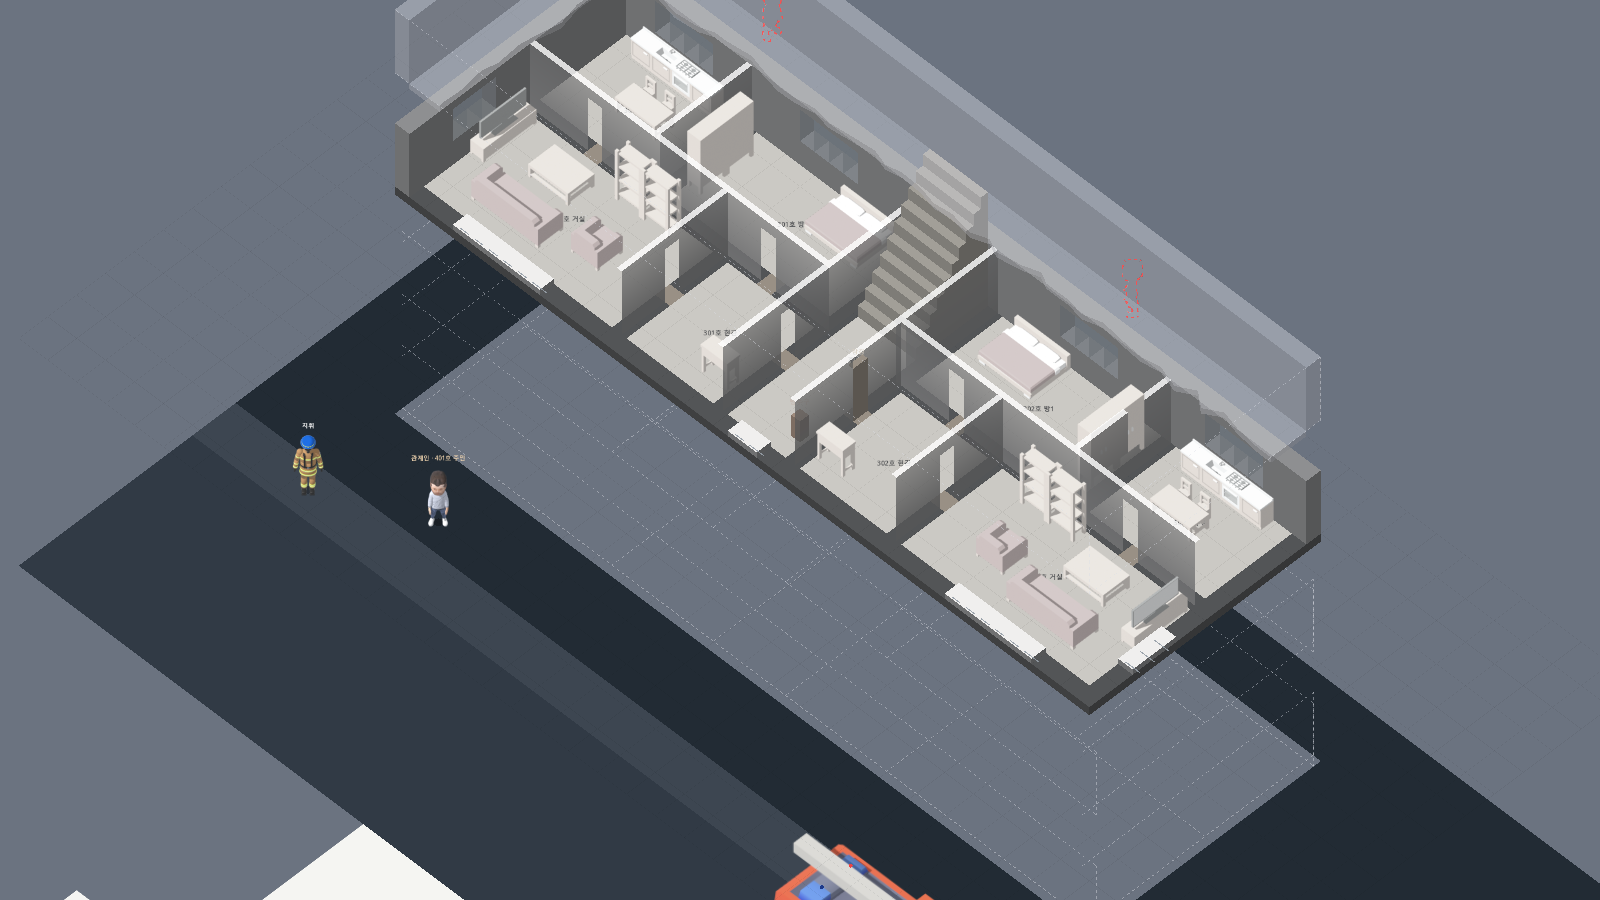
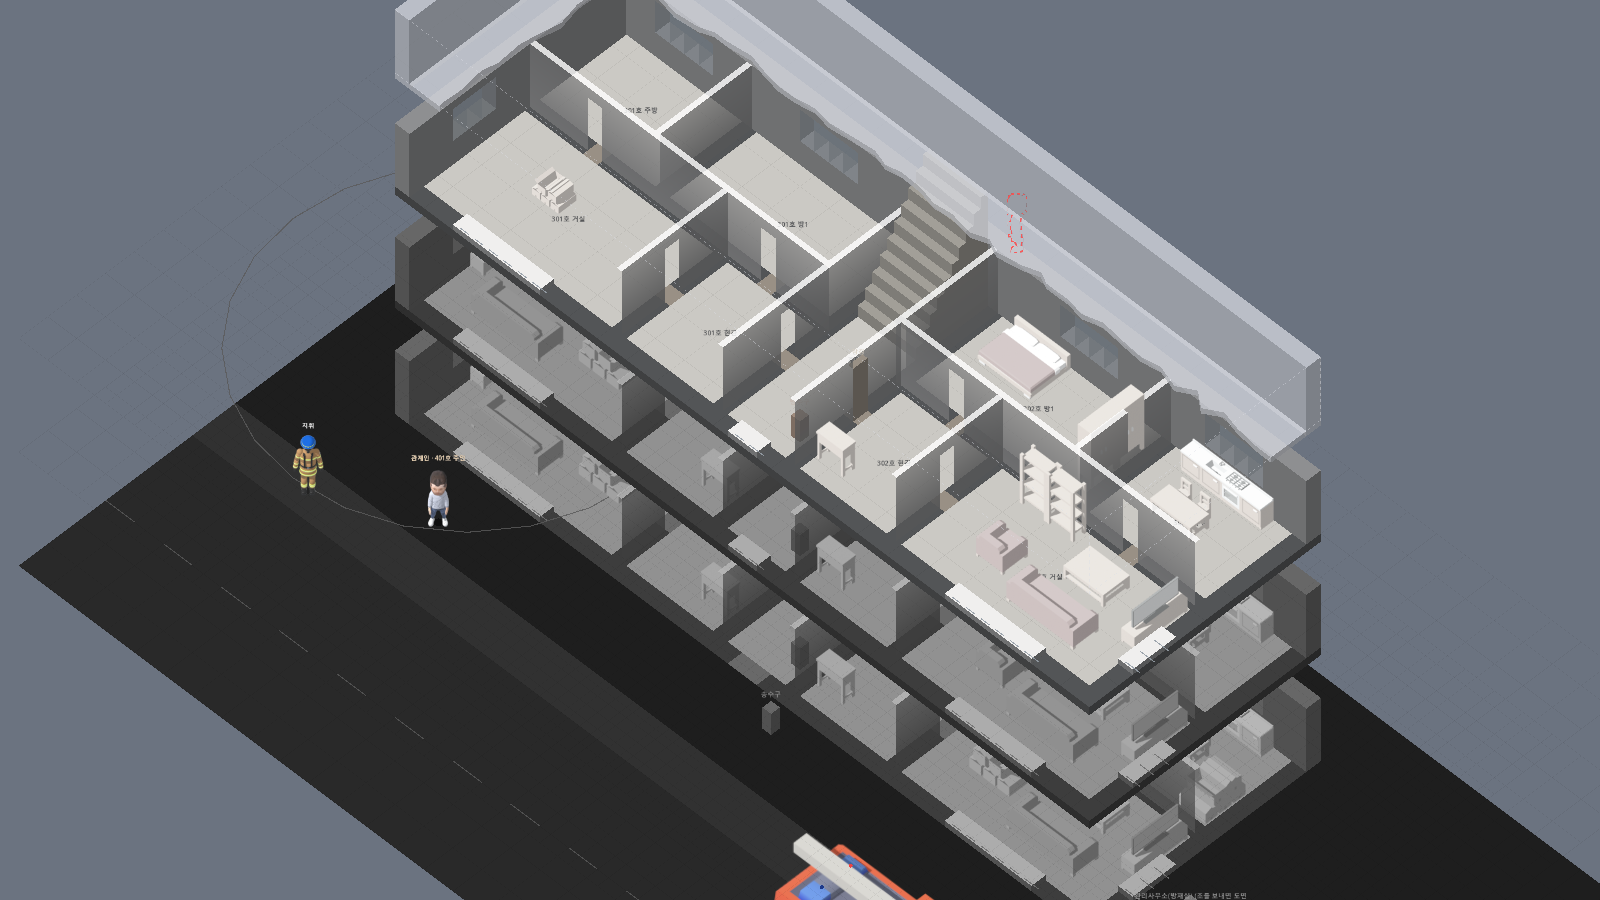
F01: 아래층은 구조를 온전히(흑백·어둡게), 사람은 점선 테두리, 바깥 땅은 원래 색

diff --git a/docs/decisions.md b/docs/decisions.md
@@ -130,3 +130,4 @@
 | 2026-11-12 | F01 | 위층 바닥 턱 다듬기·입체 계단 | 턱을 두 벽의 끝까지, 폭 1.0 → 1.5m, 안쪽 가장자리는 불규칙하게 깨진 모양(고정 난수 ±0.2m) + 그 변을 따라 바닥판 두께. 지금 층의 올라가는 계단을 입체 디딤판으로(위층이 함께 보일 때 — 예전에는 아래로 보이는 층에서만 그렸다) | 사용자 결정 — 턱 끝이 벽과 안 맞았고, 깨져 뚫린 바닥처럼 보이길 원함. 계단이 바닥 무늬로만 보였음 |
 | 2026-11-12 | F01 | 위층 바닥 턱 폭 | 1.5 → 1.1m | 사용자 결정 |
 | 2026-11-12 | F01 | 위층 뒷벽·턱 진하기 | 0.4 → 0.7 | 사용자 제안 — 위층 벽·턱이 지금 층 방 안을 가리지 않으니 더 진하게 해 입체감을 살림. 턱이 1층 뒷벽 창 윗부분을 조금 덮어 완전 불투명은 피함 |
+| 2026-11-12 | F01 | 아래층은 온전히(흑백) | 위층(턱·점선)과 달리 아래층은 구조(바닥·벽·가구)를 온전히 그린다 — 지금 층이 가리는 곳은 자연히 안 보이고 앞쪽 띠만 보인다. 흑백 + 밝기 72%로 구분, 연기·불은 그리지 않음, 그 층 사람은 점선 테두리. 땅 층이 아래로 보이면 차량·바깥 사람은 원래 색(바깥 땅 겹). 건물 종류와 상관없이 같은 규칙. 위층 벽 상자는 바닥판 두께만큼 아래로 늘려 턱과 아랫면을 맞춤 | 사용자 제안·결정 — 아래층은 지금 층을 가리지 않으니 뜯어낼 이유가 없고, 건물이 아래로 이어진 것이 읽힘 |

diff --git a/docs/progress.md b/docs/progress.md
@@ -55,3 +55,4 @@
 | 2026-11-12 | F01 위층 바닥 턱·바깥 점선 한 줄 | scripts/ui/building/floor_layer(_draw_adjacent·_draw_upper_ledge·_draw_upper_outline)·view_params, data/ui/view_params(ghost_ledge_m·ghost_slab_m), tests/test_cutaway | 다음: 튜토리얼 단계 정비 |
 | 2026-11-12 | F01 턱 깨진 가장자리·입체 계단 | scripts/ui/building/floor_layer(_draw_upper_ledge)·view_params, scripts/ui/iso_view(지금 층 upper_level), data/ui/view_params(ghost_ledge_m 1.5·ghost_ledge_jag_m), tests/test_cutaway | 다음: 튜토리얼 단계 정비 |
 | 2026-11-12 | F01 지금 층 뒷벽 사라짐 고침 | scripts/ui/building/floor_layer(_draw_mask는 depth > 0 일 때만), tests/ui_cutaway(확인 항목) | 원인: 입체 계단용으로 지금 층에 upper_level을 넘기자 '위층 바닥에 가려지는 칸 빼기'가 지금 층에도 적용됨 (632a4e7에서 생김) |
+| 2026-11-12 | F01 아래층 온전히(흑백) | scripts/ui/iso_view(아래층 ghost_mode 0·self_modulate·skip_live·people_outline·바깥 땅 겹), scripts/ui/building/floor_layer(people_outline, ghost_mode 5, 위층 벽 상자 아랫면), tests(ui_cutaway 확인 항목, ui_smoke 미니맵 끌기 다시 시도) | ui_smoke '미니맵 끌기'가 이번부터 한 번에 안 될 때가 있어 다시 시도하게 고침 — 원인(끼어드는 마우스 입력으로 추정) 미확인. 다음: 튜토리얼 단계 정비 |
